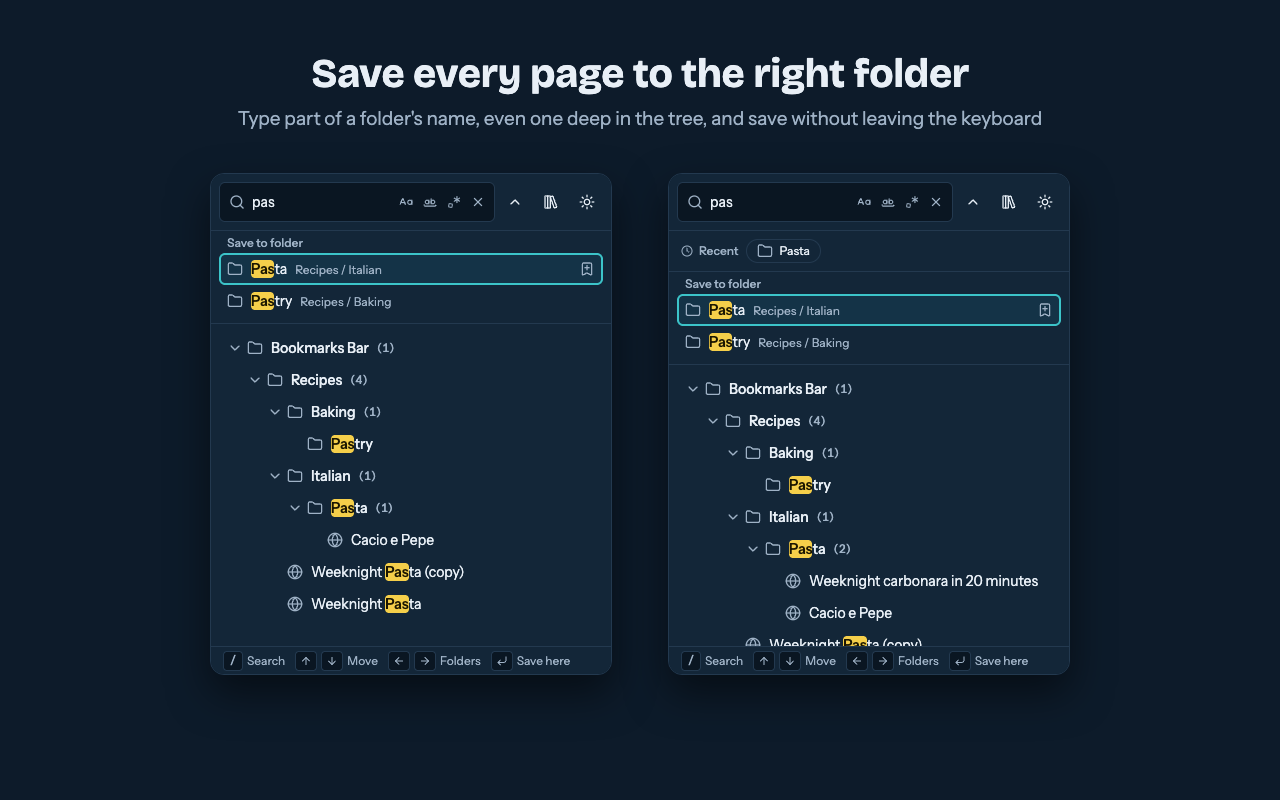
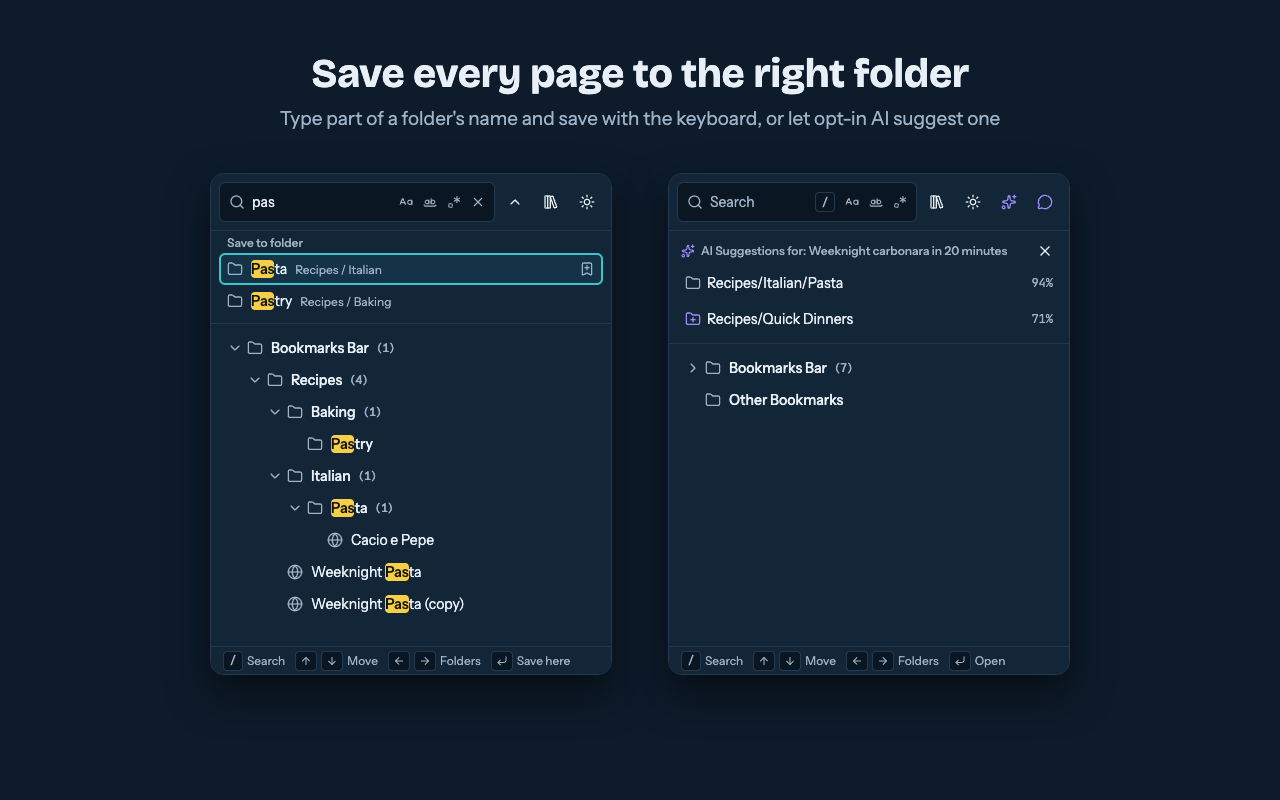
📸 docs(store): pair the folder search with AI suggestions
The second popup in the first screenshot only added a Recent entry to
the first one. It now shows the other way to pick a folder: AI folder
suggestions for the page (the existing Recipes/Italian/Pasta folder and a
new Recipes/Quick Dinners), from a stubbed provider answered by a
Playwright route. AI is turned off again before the next capture, so the
Options screenshots still show the default. Caption and alt text follow.

diff --git a/.agents/skills/extension-cws-submission/scripts/capture-store-screenshots.ts b/.agents/skills/extension-cws-submission/scripts/capture-store-screenshots.ts
@@ -26,7 +26,8 @@ const seed = async () => {
   await mk(baking.id, 'Pastry');
   const travel = await mk(bar, 'Travel');
   const japan = await mk(travel.id, 'Japan');
-  await mk(japan.id, 'Kyoto Itinerary', 'https://www.example.com/travel/kyoto');
+  const kyoto = await mk(japan.id, 'Kyoto');
+  await mk(kyoto.id, 'Kyoto Itinerary', 'https://www.example.com/travel/kyoto');
   await mk(travel.id, 'Packing List', 'https://www.example.org/travel/packing');
   await mk(travel.id, 'Wikivoyage', 'https://en.wikivoyage.org/');
   const research = await mk(bar, 'Research');
@@ -56,6 +57,31 @@ const stubActiveTab = () => {
     query?.active
       ? [{ id: 999, index: 0, windowId: 1, active: true, highlighted: true, pinned: false, incognito: false, title: 'Weeknight carbonara in 20 minutes', url: 'https://www.example.com/recipes/weeknight-carbonara' }]
       : original(query);
+};
+
+// Folder suggestions from a stubbed AI provider; no request leaves the machine.
+const AI_BASE_URL = 'https://ai.example.invalid/v1';
+const AI_SUGGESTIONS = JSON.stringify({
+  recommendations: [
+    { type: 'existing', confidence: 0.94, folderPath: 'Bookmarks Bar/Recipes/Italian/Pasta', parentPath: '', reason: 'A pasta recipe, like the others in this folder' },
+    { type: 'new', confidence: 0.71, folderPath: 'Bookmarks Bar/Recipes/Quick Dinners', parentPath: '', reason: 'A 20-minute weeknight dinner' },
+  ],
+});
+
+const enableStubAI = async (baseUrl: string) => {
+  const key = 'bookmark-scout-settings';
+  const current = (await chrome.storage.sync.get(key))[key] ?? {};
+  await chrome.storage.sync.set({
+    [key]: { ...current, aiEnabled: true, aiProvider: 'custom', aiModel: 'demo-model', aiMaxRecommendations: 2 },
+  });
+  await chrome.storage.local.set({ 'bookmark-scout-ai': { custom: { baseUrl, customModel: 'demo-model' } } });
+};
+
+const disableStubAI = async () => {
+  const key = 'bookmark-scout-settings';
+  const { aiEnabled, aiProvider, aiModel, aiMaxRecommendations, ...rest } = (await chrome.storage.sync.get(key))[key] ?? {};
+  await chrome.storage.sync.set({ [key]: rest });
+  await chrome.storage.local.remove('bookmark-scout-ai');
 };
 
 const runTool = async (page: Page, name: string) => {
@@ -105,29 +131,46 @@ export default async ({ context, id, sw, shot, log }: Ctx) => {
     await shot(page, `options-ai-${scheme}`);
     await page.close();
 
-    // The save flow: type part of a folder's name, pick the match with ↓, then Enter saves.
-    const popup = await context.newPage();
-    await popup.setViewportSize(POPUP);
-    await popup.emulateMedia({ colorScheme: scheme });
-    await popup.addInitScript(stubActiveTab);
-    await popup.goto(url('popup.html'));
-    await popup.waitForTimeout(SETTLE_MS);
-    const search = popup.getByPlaceholder(/Search bookmarks/);
+    // The two ways to pick a folder: type part of its name, or ask AI for suggestions.
+    const openPopup = async () => {
+      const popup = await context.newPage();
+      await popup.setViewportSize(POPUP);
+      await popup.emulateMedia({ colorScheme: scheme });
+      await popup.addInitScript(stubActiveTab);
+      await popup.goto(url('popup.html'));
+      await popup.waitForTimeout(SETTLE_MS);
+      return popup;
+    };
+    const match = await openPopup();
+    const search = match.getByPlaceholder(/Search bookmarks/);
     await search.pressSequentially('pas', { delay: 80 });
-    await popup.waitForTimeout(SETTLE_MS);
+    await match.waitForTimeout(SETTLE_MS);
     await search.press('ArrowDown');
-    await popup.waitForTimeout(SETTLE_MS / 2);
-    await shot(popup, `popup-match-${scheme}`);
-    await popup.keyboard.press('Enter');
-    await popup.getByText('Bookmark saved', { exact: true }).first().waitFor({ timeout: 5_000 }).catch(() => log('[popup] no save toast text found'));
-    await popup.waitForTimeout(SETTLE_MS / 2);
-    await shot(popup, `popup-saved-${scheme}`);
-    // Undo the save and its recent folder, so the light and dark runs start from the same state.
-    await sw.evaluate(async () => {
-      const [hit] = await chrome.bookmarks.search({ url: 'https://www.example.com/recipes/weeknight-carbonara' });
-      if (hit) await chrome.bookmarks.remove(hit.id);
-      await chrome.storage.local.remove('bookmark-scout-recent-folders');
-    });
-    await popup.close();
+    await match.waitForTimeout(SETTLE_MS / 2);
+    await shot(match, `popup-match-${scheme}`);
+    await match.close();
+
+    await sw.evaluate(enableStubAI, AI_BASE_URL);
+    await context.route(`${AI_BASE_URL}/**`, (route) =>
+      route.fulfill({
+        status: 200,
+        contentType: 'application/json',
+        headers: { 'access-control-allow-origin': '*' },
+        body: JSON.stringify({
+          id: 'store-capture',
+          model: 'demo-model',
+          choices: [{ index: 0, finish_reason: 'stop', message: { role: 'assistant', content: AI_SUGGESTIONS } }],
+        }),
+      }),
+    );
+    const ai = await openPopup();
+    await ai.getByTitle('AI folder recommendation').click();
+    await ai.getByRole('button', { name: /Quick Dinners/ }).first().waitFor({ timeout: 15_000 });
+    await ai.mouse.move(0, 0);
+    await ai.waitForTimeout(SETTLE_MS / 2);
+    await shot(ai, `popup-ai-${scheme}`);
+    await ai.close();
+    await context.unroute(`${AI_BASE_URL}/**`);
+    await sw.evaluate(disableStubAI);
   }
 };

diff --git a/.agents/skills/extension-cws-submission/scripts/compose-store-screenshots.ts b/.agents/skills/extension-cws-submission/scripts/compose-store-screenshots.ts
@@ -19,7 +19,7 @@ const THEMES = {
 } as const;
 // The save flow the listing leads with: type part of a folder's name, then save there.
 const HEADING = 'Save every page to the right folder';
-const SUBHEADING = "Type part of a folder's name, even one deep in the tree, and save without leaving the keyboard";
+const SUBHEADING = "Type part of a folder's name and save with the keyboard, or let opt-in AI suggest one";
 const POPUP_CROP = '400x500+0+0';
 
 const magick = (...args: string[]) => {
@@ -42,7 +42,7 @@ for (const [target, source] of Object.entries(files)) copyFileSync(path.join(sho
 const browser = await chromium.launch();
 const page = await browser.newPage({ viewport: { width: 1280, height: 800 } });
 for (const [scheme, t] of Object.entries(THEMES)) {
-  for (const name of ['popup-match', 'popup-saved']) {
+  for (const name of ['popup-match', 'popup-ai']) {
     magick(path.join(shots, `${name}-${scheme}.png`), '-crop', POPUP_CROP, '+repage', path.join(shots, `crop-${name}-${scheme}.png`));
   }
   const html = `<!doctype html><html><head><style>
@@ -54,7 +54,7 @@ p{font:400 19px/1.4 Body;color:${t.soft};text-align:center;margin:0}
 .row{display:flex;gap:56px;justify-content:center;margin-top:40px}
 img{width:400px;height:500px;border-radius:14px;border:1px solid ${t.line};box-shadow:0 18px 40px ${t.shadow}}
 </style></head><body><h1>${HEADING}</h1><p>${SUBHEADING}</p>
-<div class="row"><img src="file://${shots}/crop-popup-match-${scheme}.png"><img src="file://${shots}/crop-popup-saved-${scheme}.png"></div>
+<div class="row"><img src="file://${shots}/crop-popup-match-${scheme}.png"><img src="file://${shots}/crop-popup-ai-${scheme}.png"></div>
 </body></html>`;
   const htmlPath = path.join(shots, `compose-${scheme}.html`);
   await Bun.write(htmlPath, html);

diff --git a/apps/docs/src/lib/copy/zh-TW.ts b/apps/docs/src/lib/copy/zh-TW.ts
@@ -44,7 +44,7 @@ export const zhTW: DocsCopy = {
   /** Alt text for the shared screenshots, by name in `SCREENSHOTS` of `@bookmark-scout/config`. */
   screenshots: {
     popup:
-      "兩個彈出式視窗：在搜尋框中輸入「pas」，在「儲存到資料夾」下選取 Pasta 資料夾（Recipes / Italian）；以及按 Enter 後網頁已儲存到 Pasta 的同一個彈出式視窗",
+      "兩個彈出式視窗：在搜尋框中輸入「pas」，在「儲存到資料夾」下選取 Pasta 資料夾（Recipes / Italian）；以及針對目前網頁的 AI 建議：現有的 Recipes/Italian/Pasta 資料夾和新的 Recipes/Quick Dinners 資料夾",
     manager: "書籤管理員，包含資料夾樹狀結構、標題和網址篩選器，以及書籤表格",
     duplicates:
       "書籤管理員上方的重複書籤清理工具確認畫面，每個群組中要保留的書籤標示為「保留」",

diff --git a/apps/docs/src/lib/copy/ja.ts b/apps/docs/src/lib/copy/ja.ts
@@ -53,7 +53,7 @@ export const ja: DocsCopy = {
   /** Alt text for the shared screenshots, by name in `SCREENSHOTS` of `@bookmark-scout/config`. */
   screenshots: {
     popup:
-      "2 つのポップアップ: 検索ボックスに「pas」と入力し、フォルダに保存 で Pasta フォルダ（Recipes / Italian）を選んだ画面と、Enter を押してページを Pasta に保存した後の画面",
+      "2 つのポップアップ: 検索ボックスに「pas」と入力し、フォルダに保存 で Pasta フォルダ（Recipes / Italian）を選んだ画面と、現在のページに対する AI の提案（既存の Recipes/Italian/Pasta フォルダと新しい Recipes/Quick Dinners フォルダ）",
     manager:
       "フォルダツリー、タイトルと URL のフィルター、ブックマークの表を表示したブックマークマネージャー",
     duplicates:

diff --git a/apps/docs/src/lib/copy/zh-CN.ts b/apps/docs/src/lib/copy/zh-CN.ts
@@ -41,7 +41,7 @@ export const zhCN: DocsCopy = {
 
   /** Alt text for the shared screenshots, by name in `SCREENSHOTS` of `@bookmark-scout/config`. */
   screenshots: {
-    popup: "两个弹出窗口：在搜索框中输入“pas”，在“保存到文件夹”下选中 Pasta 文件夹（Recipes / Italian）；以及按 Enter 后网页已保存到 Pasta 的同一弹出窗口",
+    popup: "两个弹出窗口：在搜索框中输入“pas”，在“保存到文件夹”下选中 Pasta 文件夹（Recipes / Italian）；以及针对当前网页的 AI 建议：现有的 Recipes/Italian/Pasta 文件夹和新的 Recipes/Quick Dinners 文件夹",
     manager: "书签管理器，包含文件夹树、标题和网址筛选器以及书签表格",
     duplicates:
       "显示在书签管理器上方的重复书签清理审阅界面，每组中要保留的书签标有“保留”",

diff --git a/apps/docs/src/lib/copy/ko.ts b/apps/docs/src/lib/copy/ko.ts
@@ -45,7 +45,7 @@ export const ko: DocsCopy = {
   /** Alt text for the shared screenshots, by name in `SCREENSHOTS` of `@bookmark-scout/config`. */
   screenshots: {
     popup:
-      "두 개의 팝업: 검색창에 \"pas\"를 입력해 폴더에 저장에서 Pasta 폴더(Recipes / Italian)를 선택한 화면과, Enter를 눌러 페이지를 Pasta에 저장한 뒤의 화면",
+      "두 개의 팝업: 검색창에 \"pas\"를 입력해 폴더에 저장에서 Pasta 폴더(Recipes / Italian)를 선택한 화면과, 현재 페이지에 대한 AI 추천(기존 Recipes/Italian/Pasta 폴더와 새 Recipes/Quick Dinners 폴더)",
     manager: "폴더 트리, 제목 및 URL 필터, 북마크 표가 표시된 북마크 관리자",
     duplicates:
       "관리자 위에 표시된 중복 정리 검토 화면. 각 그룹에서 남길 북마크에 유지 표시가 붙어 있음",

diff --git a/apps/docs/src/lib/copy/fr.ts b/apps/docs/src/lib/copy/fr.ts
@@ -51,7 +51,7 @@ export const fr: DocsCopy = {
   /** Alt text for the shared screenshots, by name in `SCREENSHOTS` of `@bookmark-scout/config`. */
   screenshots: {
     popup:
-      "Deux fenêtres pop-up : « pas » saisi dans le champ de recherche avec le dossier Pasta (Recipes / Italian) sélectionné sous Enregistrer dans un dossier, et la même fenêtre après Entrée, avec la page enregistrée dans Pasta",
+      "Deux fenêtres pop-up : « pas » saisi dans le champ de recherche avec le dossier Pasta (Recipes / Italian) sélectionné sous Enregistrer dans un dossier, et des suggestions de l’IA pour la page actuelle : le dossier existant Recipes/Italian/Pasta et un nouveau dossier Recipes/Quick Dinners",
     manager:
       "Le gestionnaire de favoris avec l'arborescence des dossiers, les filtres de titre et d'URL, et le tableau des favoris",
     duplicates:

diff --git a/apps/docs/src/lib/copy/es.ts b/apps/docs/src/lib/copy/es.ts
@@ -51,7 +51,7 @@ export const es: DocsCopy = {
   /** Alt text for the shared screenshots, by name in `SCREENSHOTS` of `@bookmark-scout/config`. */
   screenshots: {
     popup:
-      "Dos ventanas emergentes: \"pas\" escrito en el cuadro de búsqueda con la carpeta Pasta (Recipes / Italian) seleccionada en Guardar en carpeta, y la misma ventana después de pulsar Enter, con la página guardada en Pasta",
+      "Dos ventanas emergentes: \"pas\" escrito en el cuadro de búsqueda con la carpeta Pasta (Recipes / Italian) seleccionada en Guardar en carpeta, y sugerencias de IA para la página actual: la carpeta existente Recipes/Italian/Pasta y una carpeta nueva Recipes/Quick Dinners",
     manager:
       "El administrador de marcadores con el árbol de carpetas, los filtros de título y URL, y la tabla de marcadores",
     duplicates:

diff --git a/apps/docs/src/lib/copy/de.ts b/apps/docs/src/lib/copy/de.ts
@@ -51,7 +51,7 @@ export const de: DocsCopy = {
   /** Alt text for the shared screenshots, by name in `SCREENSHOTS` of `@bookmark-scout/config`. */
   screenshots: {
     popup:
-      "Zwei Pop-ups: „pas“ im Suchfeld, unter „In Ordner speichern“ ist der Ordner Pasta (Recipes / Italian) ausgewählt, und dasselbe Pop-up nach Enter, mit der Seite in Pasta gespeichert",
+      "Zwei Pop-ups: „pas“ im Suchfeld, unter „In Ordner speichern“ ist der Ordner Pasta (Recipes / Italian) ausgewählt, und KI-Vorschläge für die aktuelle Seite: der vorhandene Ordner Recipes/Italian/Pasta und ein neuer Ordner Recipes/Quick Dinners",
     manager:
       "Der Lesezeichen-Manager mit Ordnerbaum, den Filtern für Titel und URL und der Lesezeichentabelle",
     duplicates:

diff --git a/apps/docs/src/lib/copy/pt-BR.ts b/apps/docs/src/lib/copy/pt-BR.ts
@@ -51,7 +51,7 @@ export const ptBR: DocsCopy = {
   /** Alt text for the shared screenshots, by name in `SCREENSHOTS` of `@bookmark-scout/config`. */
   screenshots: {
     popup:
-      "Dois pop-ups: \"pas\" digitado na caixa de pesquisa com a pasta Pasta (Recipes / Italian) selecionada em Salvar na pasta, e o mesmo pop-up depois do Enter, com a página salva em Pasta",
+      "Dois pop-ups: \"pas\" digitado na caixa de pesquisa com a pasta Pasta (Recipes / Italian) selecionada em Salvar na pasta, e sugestões da IA para a página atual: a pasta existente Recipes/Italian/Pasta e uma nova pasta Recipes/Quick Dinners",
     manager:
       "O gerenciador de favoritos com a árvore de pastas, os filtros de título e de URL e a tabela de favoritos",
     duplicates:

diff --git a/apps/docs/src/lib/copy.ts b/apps/docs/src/lib/copy.ts
@@ -57,7 +57,7 @@ const en = {
   /** Alt text for the shared screenshots, by name in `SCREENSHOTS` of `@bookmark-scout/config`. */
   screenshots: {
     popup:
-      "Two popups: \"pas\" typed in the search box with the Pasta folder (Recipes / Italian) selected under Save to folder, and the same popup after Enter, with the page saved in Pasta",
+      "Two popups: \"pas\" typed in the search box with the Pasta folder (Recipes / Italian) selected under Save to folder, and AI suggestions for the current page: the existing Recipes/Italian/Pasta folder and a new Recipes/Quick Dinners folder",
     manager:
       "The bookmarks manager with the folder tree, the title and URL filters, and the bookmark table",
     duplicates:

diff --git a/store/README.md b/store/README.md
@@ -83,11 +83,11 @@ All curated screenshots are 1280x800 24-bit RGB PNGs without alpha, so one set w
 
 | File | Shows |
 | --- | --- |
-| `01-popup-light.png` | The save flow, light theme: "pas" typed with the nested Pasta folder selected under Save to folder, then the page saved there (two popups composed on a 1280x800 frame with a caption) |
+| `01-popup-light.png` | The two ways to pick a folder, light theme: "pas" typed with the nested Pasta folder selected under Save to folder, and AI folder suggestions for the page (two popups composed on a 1280x800 frame with a caption) |
 | `02-manager-light.png` | Bookmarks manager in a folder, light theme |
 | `03-tools-duplicates-light.png` | Tools sidebar with a Duplicate Cleaner review, light theme |
 | `04-options-ai-light.png` | Options, AI tab with AI off (the default), light theme |
-| `05-popup-dark.png` | The save flow, dark theme |
+| `05-popup-dark.png` | The same pair, dark theme |
 | `06-manager-dark.png` | Bookmarks manager, dark theme |
 | `07-tools-duplicates-dark.png` | Duplicate Cleaner review, dark theme |
 | `08-options-ai-dark.png` | Options, AI tab, dark theme |
@@ -106,7 +106,7 @@ To recapture, run the scripts in `.agents/skills/extension-cws-submission/` (see
 - The runner opens the popup as a tab, so its "current tab" would be the popup itself. The capture script stubbed `tabs.query` for the active tab to return a sample `example.com` recipe page instead. No other behavior was changed.
 - Site icons are real: before capturing, the script ran **Refresh Site Icons** over all bookmarks and saved the results, in a copy of the build whose manifest grants the optional website access (as the E2E `grantWebHostAccess` fixture does, because the permission prompt cannot be answered headlessly). Icons came only from the bookmarked sites. Sites without a usable same-site icon (`developer.chrome.com`, `example.com`, `example.org`) keep the generic globe, as they would for a user.
 - Recaptured on 2026-10-02 from `main` after the Refresh Site Icons tool landed (#501). All eight were recaptured on 2026-10-08 for the redesigned UI: the popup pair (`01`, `05`) is composed from two 400×500 popup captures on the brand paper color with the Bricolage Grotesque heading, and the other six are plain 1280×800 page captures. The store icon (`store/assets/store-icon-128.png`, artwork 96 px tall on a 128 px canvas), the small promo tile, and the marquee tile (`store/assets/marquee-1400x560.png`) were made from `store/ai-asset-prompts.md`: AI-generated backgrounds and a cleaned logo master (`store/assets/logo-master-2048.png`), with the real logo and title composited afterwards. They are used for the store listing only; the packaged toolbar icons are unchanged.
-- Recaptured on 2026-10-10 for the save-first listing: the popup pair (`01`, `05`) now shows the save flow (type `pas`, ↓ selects Recipes / Italian / Pasta, Enter saves the page there), and the other six were recaptured unchanged. The capture removes the saved bookmark and the recent folder between the light and dark runs, so both start from the same state.
+- Recaptured on 2026-10-10 for the save-first listing: the popup pair (`01`, `05`) now shows the two ways to pick a folder: typing `pas` with ↓ selecting Recipes / Italian / Pasta, and AI folder suggestions for the page (an existing folder and a new one). The suggestions come from a stubbed provider (`ai.example.invalid`, answered by a Playwright route, so no request leaves the machine); AI is turned off again before the next capture, so the Options screenshots still show the default. The other six were recaptured unchanged.
 - Raw captures stay in `~/.cache/bookmark-scout-qa/store-icons/` (not committed). Curated files were re-encoded with ImageMagick (reduced palette, saved as 24-bit RGB without alpha) to keep each file around 75 to 130 KB.
 
 Screenshots show the English UI. Localized screenshots for `ja` and `ko` were not produced; the stores accept the English set for every locale.
